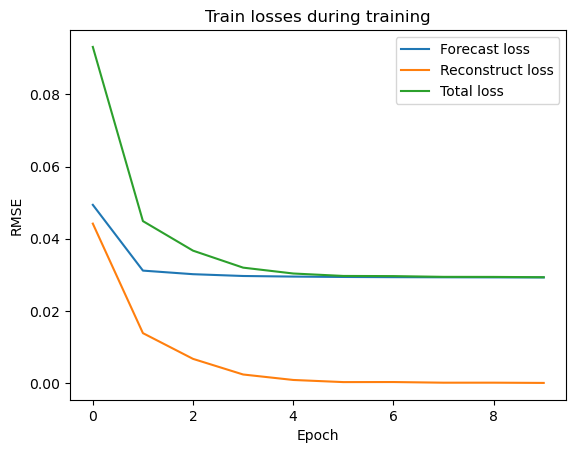
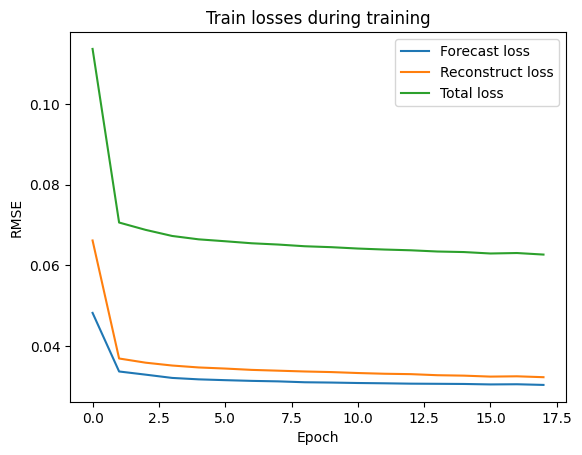
update

Changed region(s): [[0.0, 0.0, 1.0, 0.989]]

diff --git a/exp/exp.py b/exp/exp.py
@@ -5,13 +5,13 @@ import pandas as pd
 import torch
 from sklearn.metrics import precision_score, recall_score, f1_score
 from torch import optim
-from torch.optim.lr_scheduler import LambdaLR
 from torch.utils.data import DataLoader
 from tqdm import tqdm
 
 from data.dataset import MyDataset
 from model.loss import JointLoss
 from model.mtad_gat import MTAD_GAT
+from utils.adjustpred import adjust_predicts
 from utils.earlystop import EarlyStop
 from utils.evalmethods import pot_threshold
 from utils.plot import plot_loss
@@ -42,21 +42,32 @@ class Exp:
         if not os.path.exists('./result/'):
             os.makedirs('./result/')
 
-    def _get_data(self, generate, shuffle=True):
-        self.train_x, self.valid_x, self.test_x, self.test_y = preprocess(generate=generate, group=self.group)
+    def _get_data(self, generate, train=True):
+        if train:
+            self.train_x, self.valid_x, self.test_x, self.test_y = preprocess(generate=generate, group=self.group)
+            trainset = MyDataset(self.train_x, w=self.w)
+            validset = MyDataset(self.valid_x, w=self.w)
+            testset = MyDataset(self.test_x, w=self.w)
 
-        trainset = MyDataset(self.train_x, w=self.w)
-        validset = MyDataset(self.valid_x, w=self.w)
-        testset = MyDataset(self.test_x, w=self.w)
+            self.trainloader = DataLoader(trainset, batch_size=self.batch_size, shuffle=True)
+            self.validloader = DataLoader(validset, batch_size=self.batch_size, shuffle=True)
+            self.testloader = DataLoader(testset, batch_size=self.batch_size, shuffle=True)
 
-        self.trainloader = DataLoader(trainset, batch_size=self.batch_size, shuffle=shuffle)
-        self.validloader = DataLoader(validset, batch_size=self.batch_size, shuffle=shuffle)
-        self.testloader = DataLoader(testset, batch_size=self.batch_size, shuffle=shuffle)
+            self.loss = {'train': {'forecast': [], 'reconstruct': [], 'total': []},
+                         'valid': {'forecast': [], 'reconstruct': [], 'total': []}}
 
-        self.loss = {'train': {'forecast': [], 'reconstruct': [], 'total': []},
-                     'valid': {'forecast': [], 'reconstruct': [], 'total': []}}
+            print('train: {0}, valid: {1}, test: {2}'.format(len(trainset), len(validset), len(testset)))
+        else:
+            self.train_x, self.valid_x, self.test_x, self.test_y = preprocess(generate=generate, group=self.group)
+            self.train_x = np.vstack((self.train_x, self.valid_x)).shape
 
-        print('train: {0}, valid: {1}, test: {2}'.format(len(trainset), len(validset), len(testset)))
+            trainset = MyDataset(self.train_x, w=self.w)
+            testset = MyDataset(self.test_x, w=self.w)
+
+            self.trainloader = DataLoader(trainset, batch_size=self.batch_size, shuffle=True)
+            self.testloader = DataLoader(testset, batch_size=self.batch_size, shuffle=True)
+
+            print('train: {0}, test: {1}'.format(len(trainset), len(testset)))
 
     def _get_model(self):
         self.model = MTAD_GAT().to(self.device)
@@ -164,57 +175,48 @@ class Exp:
     def predict(self, load=False):
         if load:
             self.model.load_state_dict(torch.load(self.path))
-        self._get_data(generate=False, shuffle=False)
+        self._get_data(generate=False, train=False)
 
         actual_label = self.test_y[self.w:]
 
         trainresult = self._get_score(self.train_x, self.trainloader)
-        validresult = self._get_score(self.valid_x, self.validloader)
         testresult = self._get_score(self.test_x, self.testloader)
 
         for i in range(self.test_x.shape[1]):
-            train_score = trainresult["Score_" + str(i)]
-            valid_score = validresult["Score_" + str(i)]
-            test_score = testresult["Score_" + str(i)]
+            train_score = trainresult["Score_" + str(i)].values
+            test_score = testresult["Score_" + str(i)].values
 
-            threshold = pot_threshold(valid_score, test_score)
+            threshold = pot_threshold(train_score, test_score)
 
             train_pred = (train_score > threshold).astype(np.int)
-            valid_pred = (valid_score > threshold).astype(np.int)
             test_pred = (test_score > threshold).astype(np.int)
 
             trainresult["Pred_" + str(i)] = train_pred
             trainresult["Threshold_" + str(i)] = threshold
-            validresult["Pred_" + str(i)] = valid_pred
-            validresult["Threshold_" + str(i)] = threshold
             testresult["Pred_" + str(i)] = test_pred
             testresult["Threshold_" + str(i)] = threshold
 
-        train_score = trainresult["Score_Global"]
-        valid_score = validresult["Score_Global"]
-        test_score = testresult["Score_Global"]
+        train_score = trainresult["Score_Global"].values
+        test_score = testresult["Score_Global"].values
 
-        threshold = pot_threshold(valid_score, test_score)
+        threshold = pot_threshold(train_score, test_score)
         # threshold = bestf1_threshold(test_score, actual_label)
 
         train_pred = (train_score > threshold).astype(np.int)
-        valid_pred = (valid_score > threshold).astype(np.int)
         test_pred = (test_score > threshold).astype(np.int)
+
+        train_pred = adjust_predicts(np.zeros_like(train_pred), train_pred)
+        test_pred = adjust_predicts(actual_label, test_pred)
 
         trainresult["Pred_Global"] = train_pred
         trainresult["Label_Global"] = 0
         trainresult["Threshold_Global"] = threshold
-
-        validresult["Pred_Global"] = valid_pred
-        validresult["Label_Global"] = 0
-        validresult["Threshold_Global"] = threshold
 
         testresult["Pred_Global"] = test_pred
         testresult["Label_Global"] = actual_label
         testresult["Threshold_Global"] = threshold
 
         trainresult.to_csv('./result/' + str(self.group) + '_iter' + str(self.iter) + '_trainresult.csv', index=False)
-        validresult.to_csv('./result/' + str(self.group) + '_iter' + str(self.iter) + '_validresult.csv', index=False)
         testresult.to_csv('./result/' + str(self.group) + '_iter' + str(self.iter) + '_testresult.csv', index=False)
 
         print("Iter {0} Group {1} || precision: {2:.6f} recall: {3:.6f} f1: {4:.6f}".format(

diff --git a/utils/evalmethods.py b/utils/evalmethods.py
@@ -1,6 +1,7 @@
 import numpy as np
 from sklearn.metrics import f1_score
 
+from utils.adjustpred import adjust_predicts
 from utils.spot import SPOT
 
 
@@ -21,6 +22,7 @@ def bestf1_threshold(test_scores, test_label, start=0.01, end=2, search_step=100
     for i in range(search_step):
         threshold = start + i * ((end - start) / search_step)
         test_pred = (test_scores > threshold).astype(np.int)
+        test_pred = adjust_predicts(test_label, test_pred)
         f1 = f1_score(test_label, test_pred)
 
         if f1 > best_f1:

diff --git a/utils/adjustpred.py b/utils/adjustpred.py
@@ -1,0 +1,19 @@
+def adjust_predicts(label, pred):
+    anomaly_state = False
+
+    for i in range(len(pred)):
+        if label[i] and pred[i] and not anomaly_state:
+            anomaly_state = True
+            for j in range(i, -1, -1):
+                if not label[j]:
+                    break
+                else:
+                    if not pred[j]:
+                        pred[j] = 1
+
+        elif not label[i]:
+            anomaly_state = False
+
+        if anomaly_state:
+            pred[i] = 1
+    return pred

diff --git a/main.py b/main.py
@@ -10,7 +10,7 @@ if __name__ == '__main__':
     batch_size = 32
     patience = 3
     lr = 0.001
-    generate = False
+    generate = True
 
     for it in range(iters):
         print("iter " + str(it) + ' is start...')
